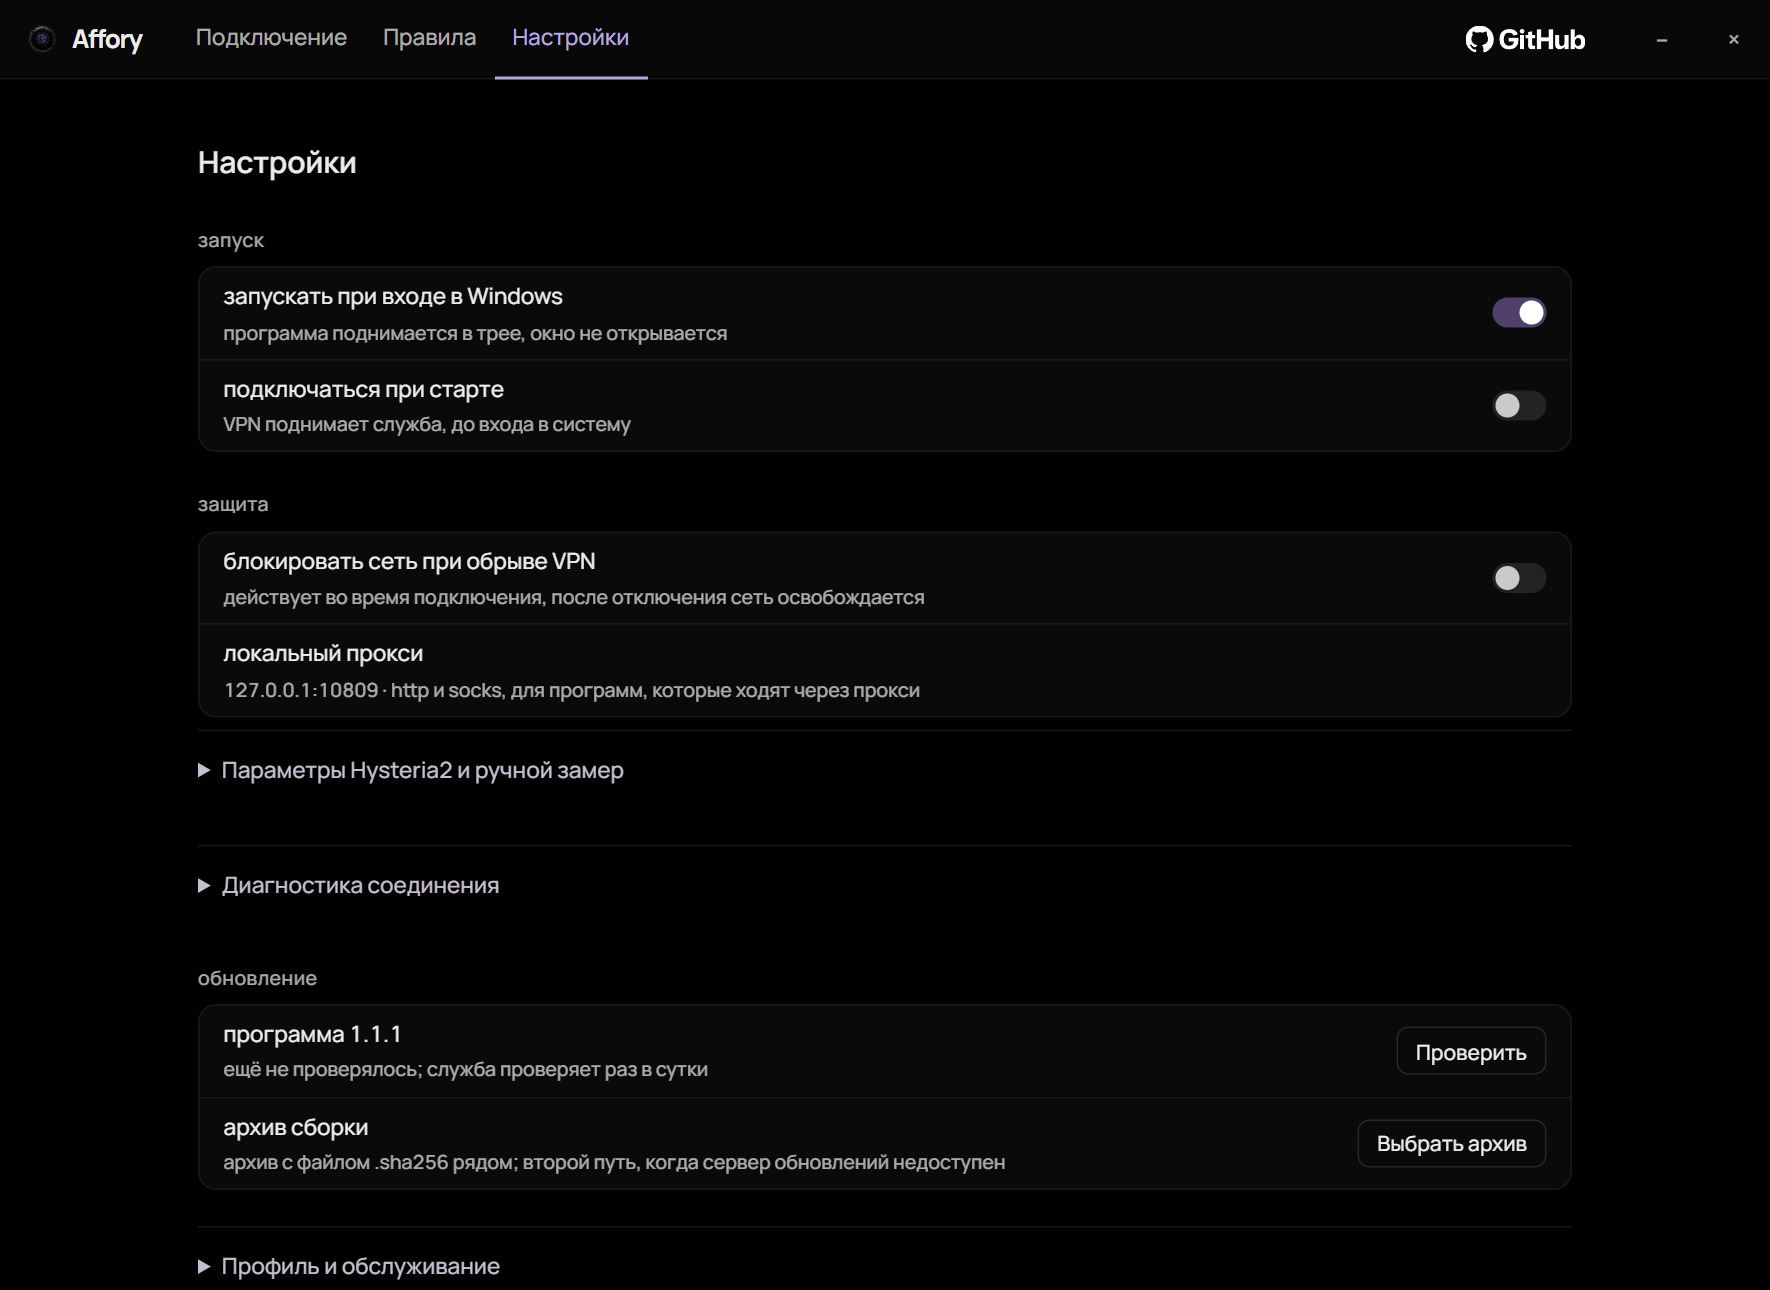
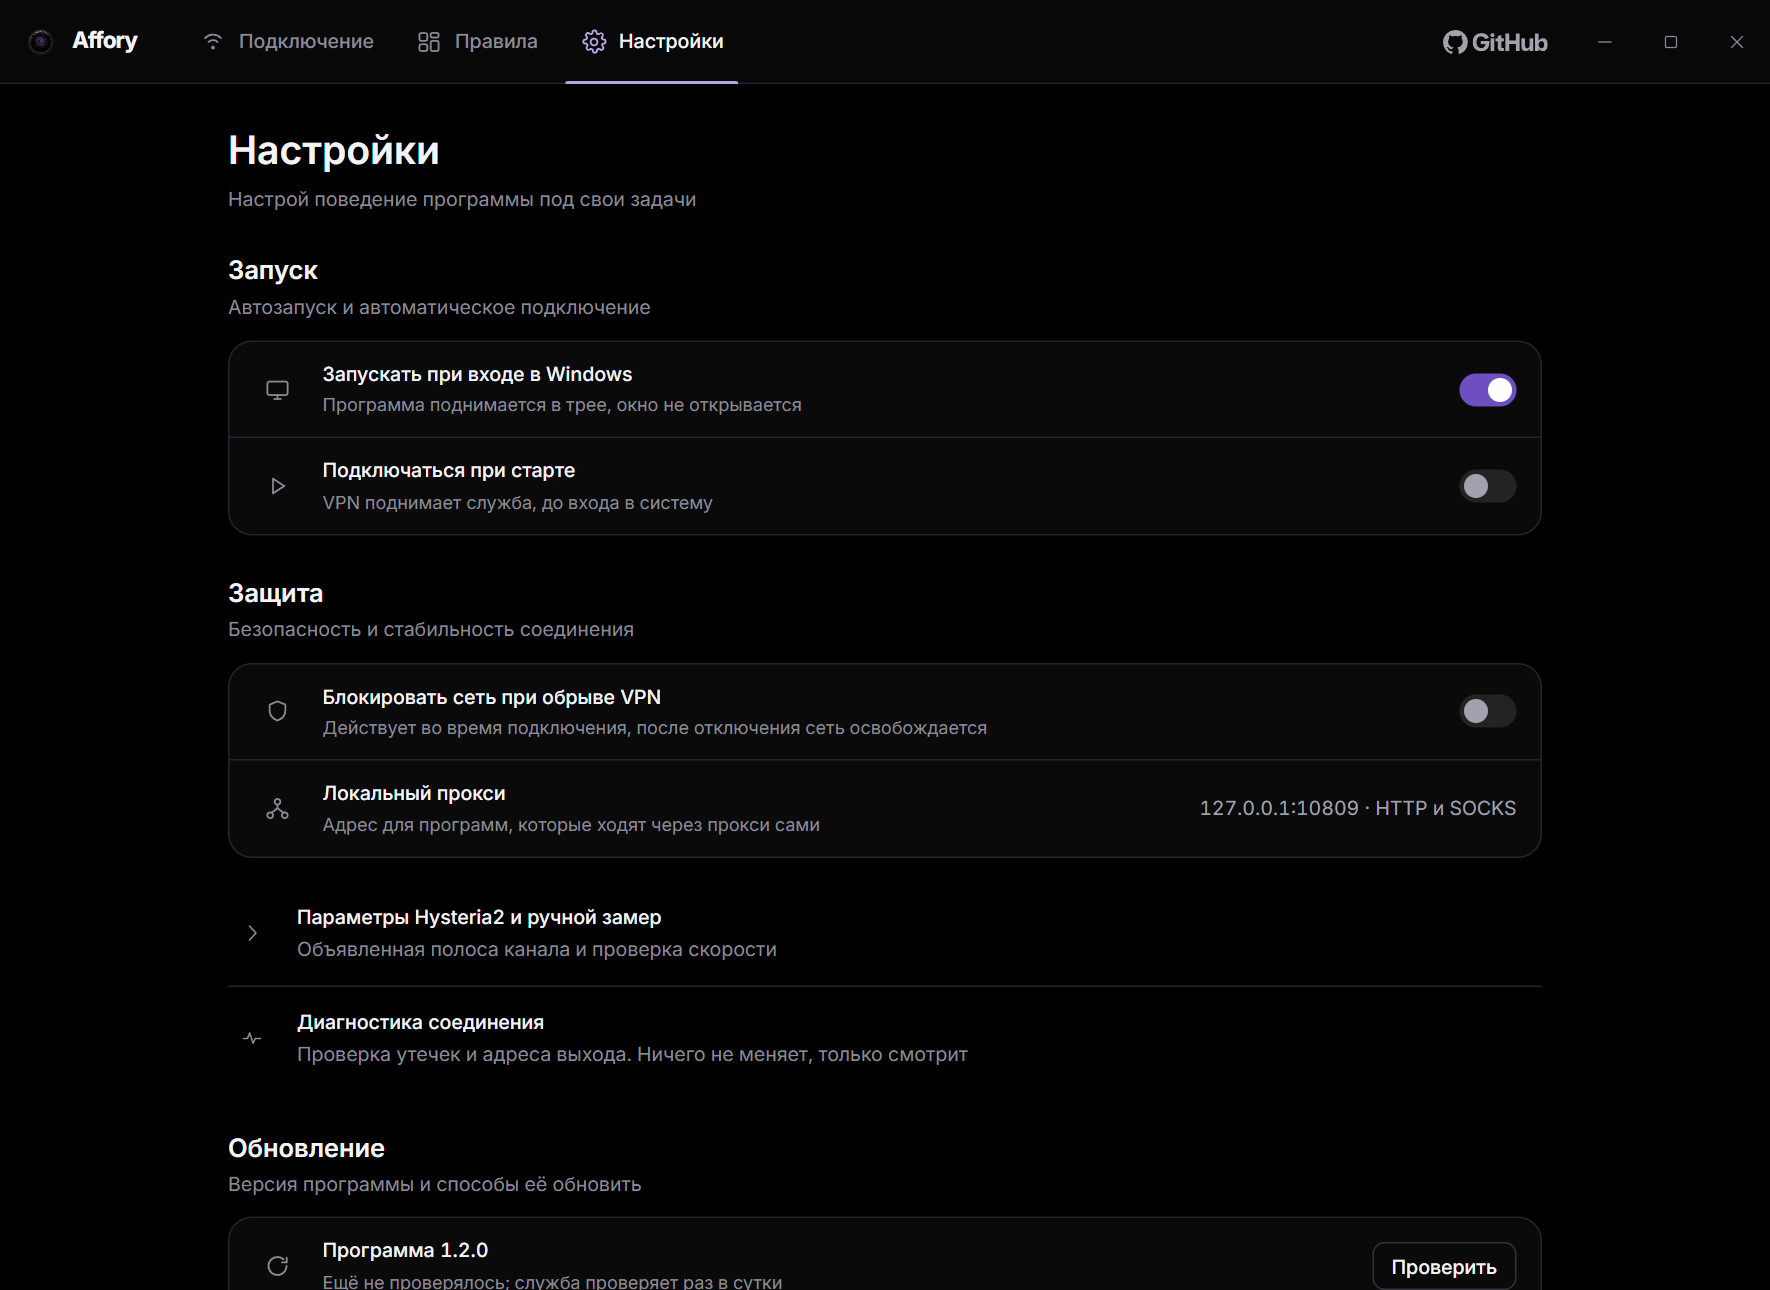
Переснять картинки README на 1.2.0
Прежние сняты на 1.1.1: старый экран правил карточками, вкладки без
счётчиков, ссылки в правила под переключателем нет.

Стенд съёмки обновлён под выпуск: версия 1.2.0, каталог повторяет
встроенный (те же восемь сервисов и домены), два сервиса выведены
напрямую, поэтому счётчик вкладки показывает шесть из восьми. Данные
подставные, адреса из RFC 5737, ключей нет.

diff --git a/cmd/affory-ui/frontend/src/stend/wails-zaglushka.ts b/cmd/affory-ui/frontend/src/stend/wails-zaglushka.ts
@@ -7,7 +7,7 @@
 // Данные подставные и намеренно узнаваемые: адреса из RFC 5737, ключей нет
 // нигде. Настоящие адреса в кадр не попадают никогда.
 
-const VERSIYA = "1.1.1";
+const VERSIYA = "1.2.0";
 
 const servery = [
   { id: "nl", imya: "Нидерланды · Амстердам", transport: "reality-tcp", host: "203.0.113.11", port: 443, iz_podpiski: true },
@@ -45,16 +45,33 @@ const pravila = {
     prilozheniya: [
       { put: "C:\\Program Files\\Mozilla Firefox\\firefox.exe", imya: "firefox.exe", potomki: true, marshrut: "direct" },
       { put: "C:\\Users\\home\\AppData\\Local\\Steam\\steam.exe", imya: "steam.exe", potomki: true, marshrut: "direct" },
+      { put: "C:\\Program Files\\qBittorrent\\qbittorrent.exe", imya: "qbittorrent.exe", potomki: false, marshrut: "vpn" },
     ],
-    domeny: [{ domen: "gosuslugi.ru", marshrut: "direct" }],
-    servisy: [{ id: "youtube", marshrut: "vpn" }],
-  },
-  katalog: {
-    versiya: "2026.09",
-    istochnik: "встроенный",
+    domeny: [
+      { domen: "gosuslugi.ru", marshrut: "direct" },
+      { domen: "rutracker.org", marshrut: "vpn" },
+    ],
+    // Явные маршруты сервисов: два ведут мимо туннеля, счётчик вкладки
+    // показывает шесть из восьми.
     servisy: [
-      { id: "youtube", imya: "YouTube", domeny: ["youtube.com", "ytimg.com"], istochnik: "встроенный" },
-      { id: "discord", imya: "Discord", domeny: ["discord.com"], istochnik: "встроенный" },
+      { id: "telegram", marshrut: "direct" },
+      { id: "spotify", marshrut: "direct" },
+    ],
+  },
+  // Каталог повторяет встроенный (internal/katalog/servisy.json): те же
+  // восемь сервисов и те же домены, иначе снимок врёт о содержимом выпуска.
+  katalog: {
+    versiya: "2026.09.08",
+    istochnik: "https://iplist.opencck.org/ru/",
+    servisy: [
+      { id: "youtube", imya: "YouTube", domeny: ["youtube.com", "youtu.be", "googlevideo.com"], istochnik: "https://github.com/rekryt/iplist/" },
+      { id: "discord", imya: "Discord", domeny: ["discord.com", "discord.gg", "discord.media"], istochnik: "https://github.com/rekryt/iplist/" },
+      { id: "chatgpt", imya: "ChatGPT", domeny: ["chatgpt.com", "openai.com", "oaistatic.com"], istochnik: "https://github.com/rekryt/iplist/" },
+      { id: "instagram", imya: "Instagram", domeny: ["instagram.com", "cdninstagram.com"], istochnik: "https://github.com/rekryt/iplist/" },
+      { id: "claude", imya: "Claude", domeny: ["claude.ai", "claude.com", "anthropic.com"], istochnik: "https://github.com/rekryt/iplist/" },
+      { id: "telegram", imya: "Telegram", domeny: ["telegram.org", "telegram.me", "t.me"], istochnik: "https://github.com/rekryt/iplist/" },
+      { id: "spotify", imya: "Spotify", domeny: ["spotify.com", "scdn.co", "spotifycdn.com"], istochnik: "https://github.com/rekryt/iplist/" },
+      { id: "soundcloud", imya: "SoundCloud", domeny: ["soundcloud.com", "sndcdn.com", "snd.sc"], istochnik: "https://github.com/rekryt/iplist/" },
     ],
   },
 };
